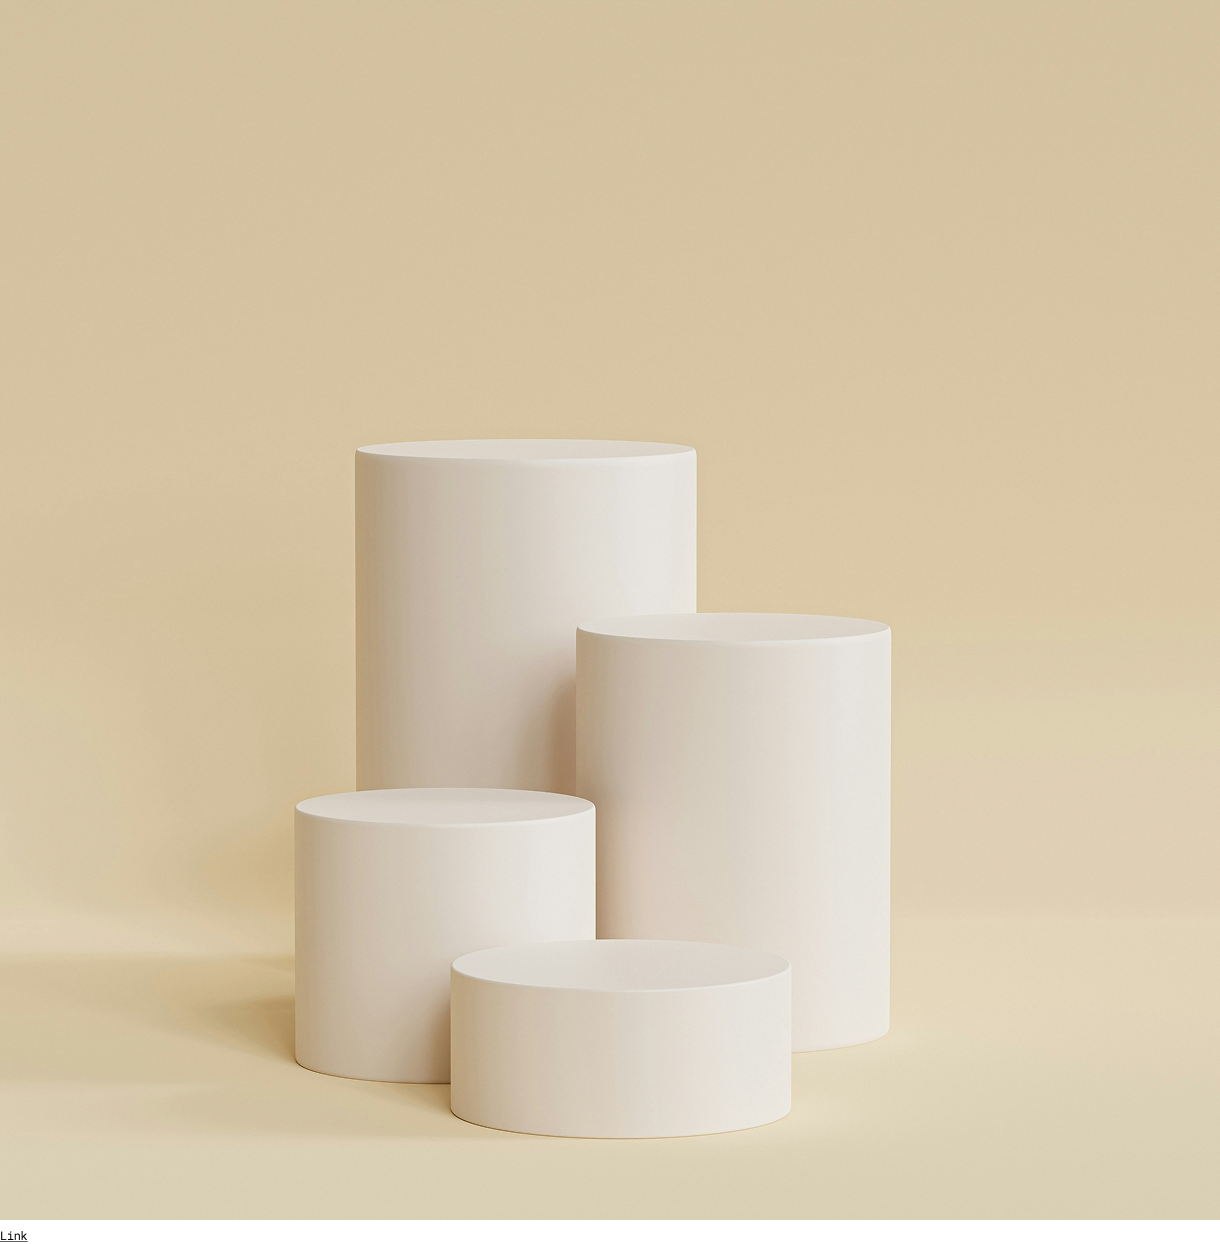
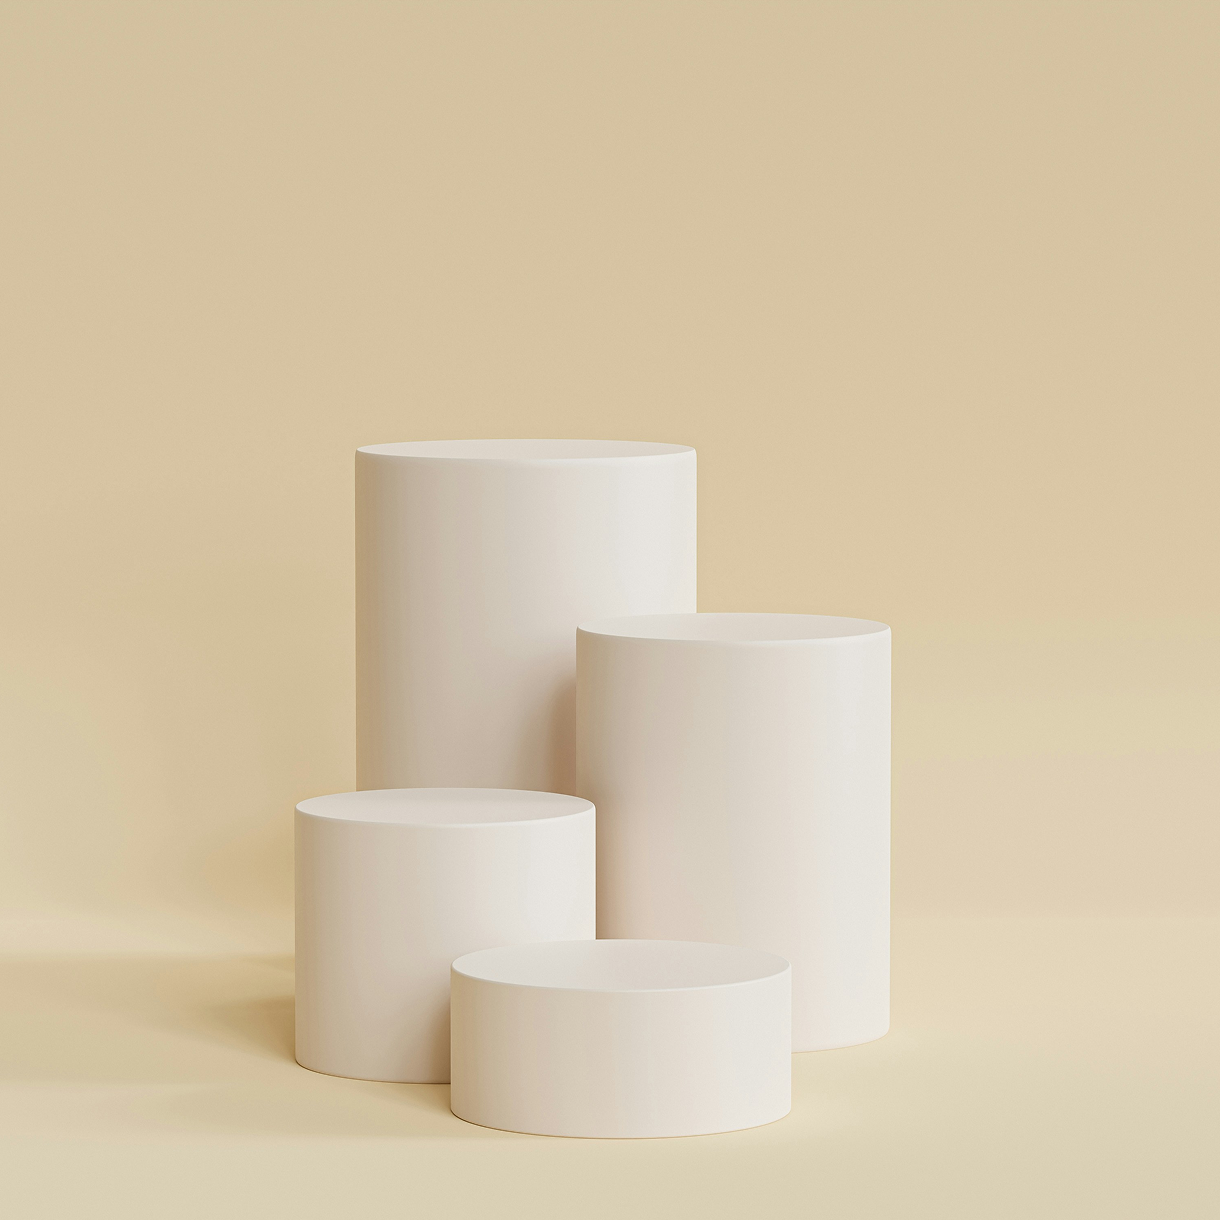
breezing though

diff --git a/index.html b/index.html
@@ -54,24 +54,53 @@
         <div class="box">
             <img src="resources/logo_n_iconz/Cable icon.png" class="box_icon" alt="">
             <div class="box_title cr_text">Amplify Insights</div>
-            <div class="box_sub">Unlock data-driven decisions with comprehensive analytics, revealing key  opportunities for strategic regional growth.</div>
+            <div class="box_sub">Unlock data-driven decisions with comprehensive analytics, revealing key opportunities
+                for strategic regional growth.</div>
         </div>
         <div class="box">
             <img src="resources/logo_n_iconz/Earth icon.png" class="box_icon" alt="">
             <div class="box_title cr_text">Control Your Global Presence</div>
-            <div class="box_sub">Manage and track satellite offices, ensuring consistent performance and streamlined operations everywhere.</div>
+            <div class="box_sub">Manage and track satellite offices, ensuring consistent performance and streamlined
+                operations everywhere.</div>
         </div>
         <div class="box">
             <img src="resources/logo_n_iconz/Account icon.png" class="box_icon" alt="">
             <div class="box_title cr_text">Remove Language Barriers</div>
-            <div class="box_sub">Adapt to diverse markets with built-in localization for clear communication and enhanced user experience.</div>
+            <div class="box_sub">Adapt to diverse markets with built-in localization for clear communication and
+                enhanced user experience.</div>
         </div>
         <div class="box">
             <img src="resources/logo_n_iconz/Chart icon.png" class="box_icon" alt="">
             <div class="box_title cr_text">Visualize Growth</div>
-            <div class="box_sub">Generate precise, visually compelling reports that illustrate your growth trajectories across all regions.</div>
+            <div class="box_sub">Generate precise, visually compelling reports that illustrate your growth trajectories
+                across all regions.</div>
         </div>
     </div>
+
+
+    <div class="parallax-section"></div>
+
+    <div class="big_picture">
+        <div class="big_text ">
+            <hr>
+            <div class="cr_text main_big_text">See the Big Picture</div>
+            <div class="sub_main_big">Area turns your data into clear, vibrant visuals that show you exactly what's
+                happening in each region.</div>
+            <div>
+                <div class="text_list"> <span class="number">01</span>Spot Trends in Seconds: No more digging through
+                    numbers.</div>
+                <div class="text_list"> <span class="number">02</span>Get Everyone on the Same Page: Share
+                    easy-to-understand reports with your team.</div>
+                <div class="text_list"> <span class="number">03</span>Make Presentations Pop: Interactive maps and
+                    dashboards keep your audience engaged.</div>
+                <div class="text_list"> <span class="number">04</span>Spot Trends in Seconds: No more digging through
+                    numbers.</div>
+                <button class="btn discover">Discover More</button>
+            </div>
+        </div>
+        <img class="big_photo" src="resources/cylinders.png" alt="">
+    </div>
+
 
 </body>
 

diff --git a/styles.css b/styles.css
@@ -22,7 +22,7 @@ a {
 	cursor: pointer;
 }
 
-hr{
+hr {
 	height: 1px;
 	border: none;
 	background-color: darkgray;
@@ -144,31 +144,89 @@ nav {
 	font-size: 3rem;
 }
 
-.boxes{
+.boxes {
 	display: flex;
 	justify-content: space-between;
 	gap: 35px;
 	margin: 100px 0;
 }
 
-.box{
+.box {
 	border-top: 1px solid rgb(184, 184, 184);
-	transition: .3s;
+	transition: 0.3s;
 }
 
-.box:hover{
+.box:hover {
 	border-radius: 20px;
 }
 
-.box_icon{
+.box_icon {
 	margin: 50px 0 20px 0;
 }
 
-.box_title{
+.box_title {
 	font-size: 1.2rem;
 	margin-bottom: 20px;
 }
 
-.box_sub{
+.box_sub {
 	color: darkgray;
+}
+
+.parallax-section {
+	height: 80vh;
+	width: 100%;
+	border-radius: 25px;
+	background-image: url("resources/red_mountains.png");
+	background-attachment: fixed;
+	background-position: center;
+	background-repeat: no-repeat;
+	background-size: cover;
+}
+
+.big_picture {
+	display: grid;
+	grid-template-columns: 1fr 1fr;
+
+	padding: 100px 0;
+	gap: 50px;
+}
+
+.big_photo {
+	max-width: 100%;
+	object-fit: contain;
+}
+
+.main_big_text {
+	font-size: 3.5rem;
+	margin: 35px 0;
+}
+
+.sub_main_big {
+	color: darkgray;
+	margin-bottom: 25px;
+}
+
+.big_photo {
+	border-radius: 25px;
+}
+
+.text_list {
+	border-top: 1px solid darkgrey;
+	padding: 20px 0;
+
+	display: flex;
+	align-items: flex-start;
+}
+
+.number {
+	font-size: 1.3rem;
+	color: darkgray;
+	font-weight: 600;
+	padding-right: 20px;
+}
+
+.discover {
+	background-color: #dfecc6;
+	margin-top: 20px;
 }
